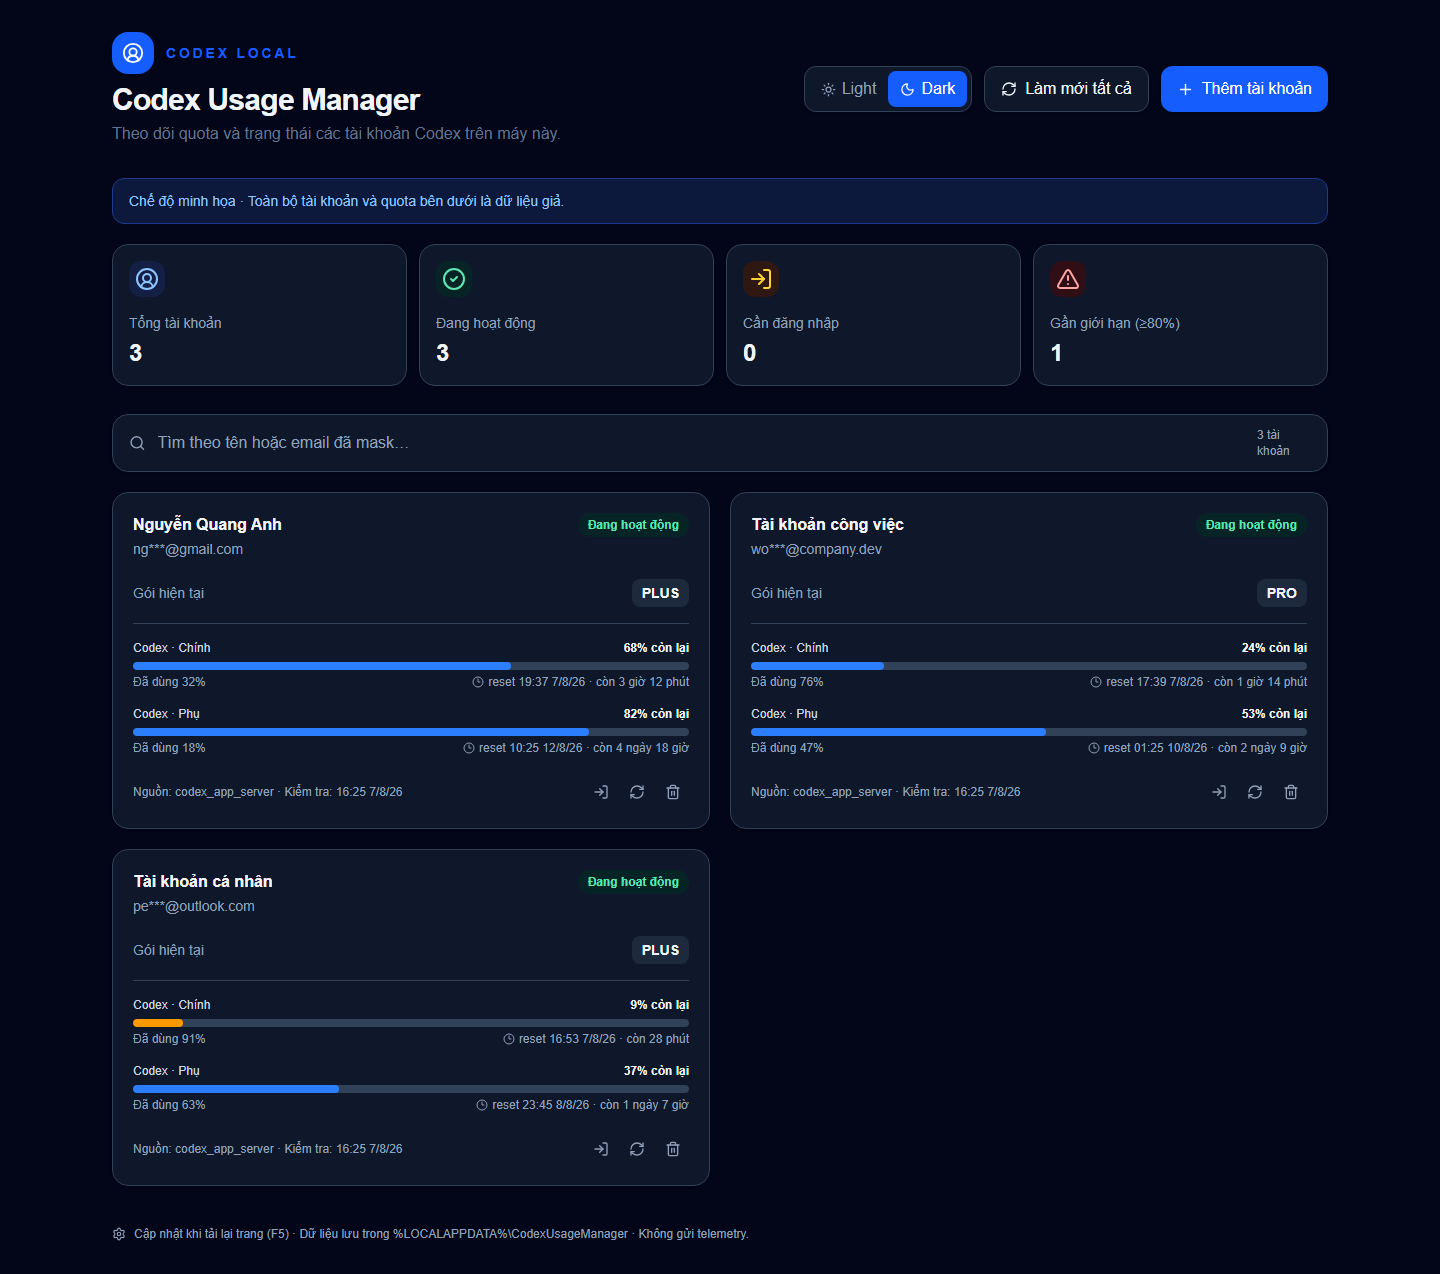
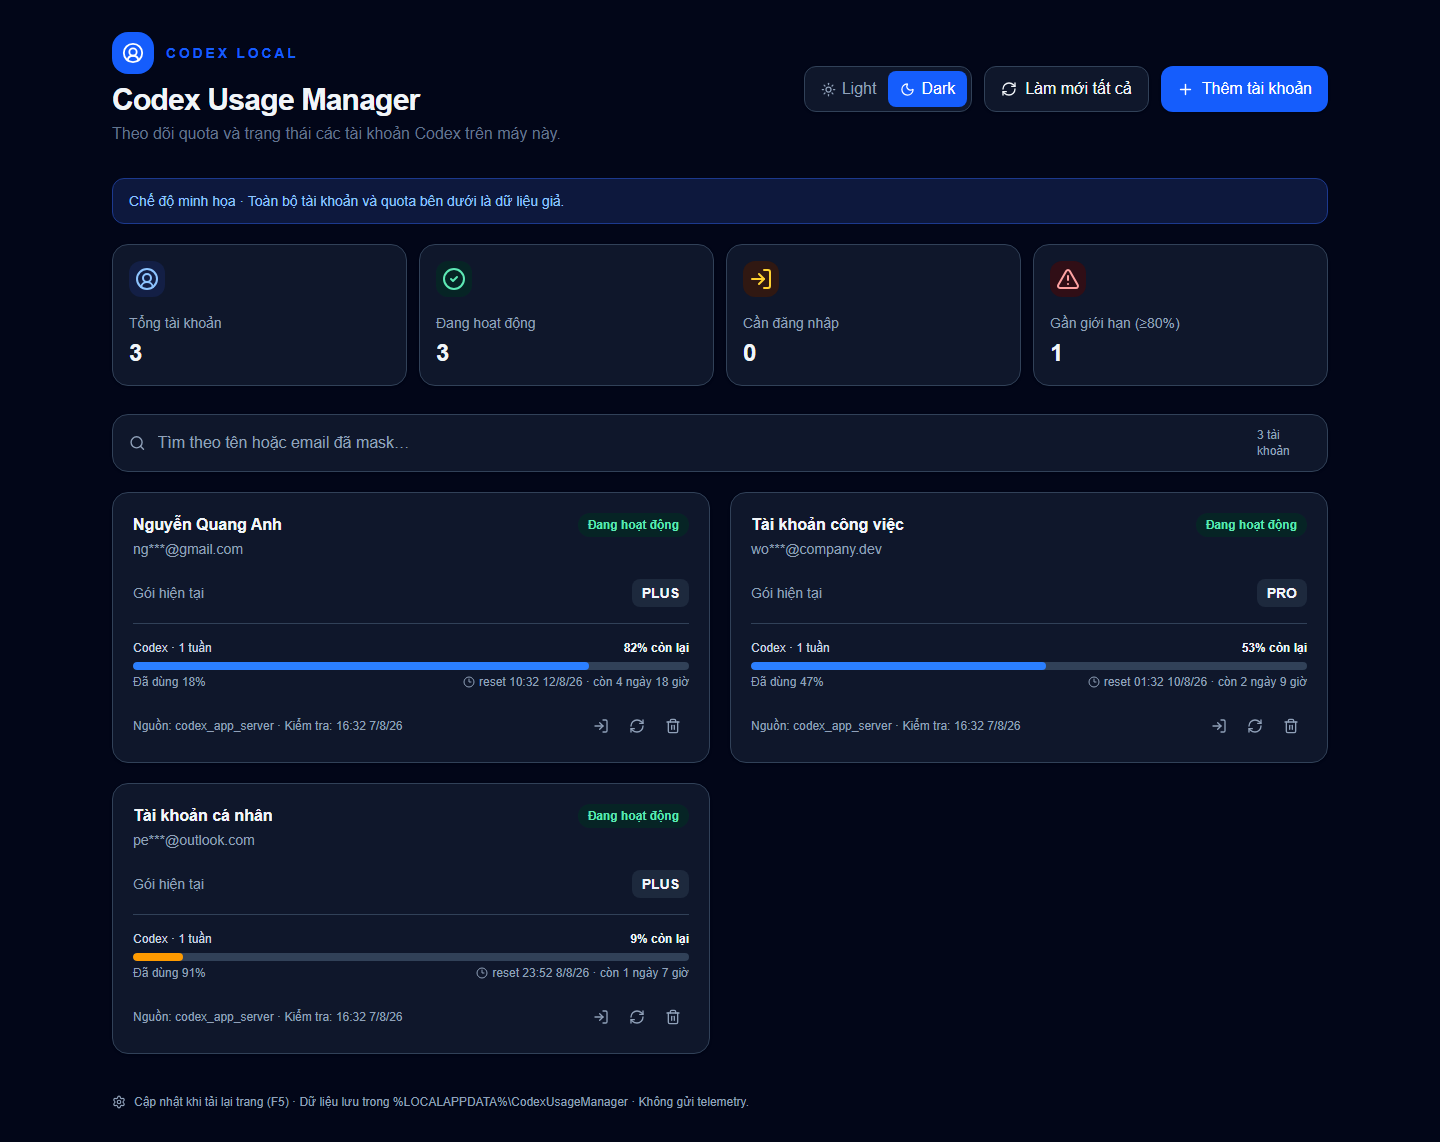
Show weekly Codex quota only

diff --git a/src/app/page.tsx b/src/app/page.tsx
@@ -20,7 +20,25 @@ function formatResetRemaining(value: string) {
   if (hours > 0) return `còn ${hours} giờ${minutes > 0 ? ` ${minutes} phút` : ""}`;
   return `còn ${minutes} phút`;
 }
-function percent(account: AccountView) { const windows = account.latestSnapshot?.windows ?? []; return windows.length ? Math.max(...windows.map((window) => window.usedPercent)) : 0; }
+function formatWindowDuration(minutes?: number) {
+  if (!minutes) return "";
+  if (minutes % 10_080 === 0) return `${minutes / 10_080} tuần`;
+  if (minutes % 1_440 === 0) return `${minutes / 1_440} ngày`;
+  if (minutes % 60 === 0) return `${minutes / 60} giờ`;
+  return `${minutes} phút`;
+}
+function visibleQuotaWindows(account: AccountView) {
+  const windows = account.latestSnapshot?.windows ?? [];
+  const longestByLimit = new Map<string, (typeof windows)[number]>();
+  for (const window of windows) {
+    const current = longestByLimit.get(window.limitId);
+    const duration = window.windowDurationMins ?? (window.kind === "secondary" ? Number.MAX_SAFE_INTEGER : 0);
+    const currentDuration = current?.windowDurationMins ?? (current?.kind === "secondary" ? Number.MAX_SAFE_INTEGER : 0);
+    if (!current || duration > currentDuration) longestByLimit.set(window.limitId, window);
+  }
+  return [...longestByLimit.values()];
+}
+function percent(account: AccountView) { const windows = visibleQuotaWindows(account); return windows.length ? Math.max(...windows.map((window) => window.usedPercent)) : 0; }
 
 async function api(path: string, init?: RequestInit) { const response = await fetch(path, { ...init, headers: { "Content-Type": "application/json", ...(init?.headers ?? {}) } }); const body = await response.json(); if (!response.ok) throw new Error(body.error ?? "Yêu cầu thất bại"); return body; }
 
@@ -113,4 +131,4 @@ export default function Home() {
 
 function Summary({ label, value, icon, tone = "blue" }: { label: string; value: number; icon: React.ReactNode; tone?: string }) { const colors: Record<string, string> = { blue: "text-blue-600 bg-blue-50 dark:bg-blue-950/60 dark:text-blue-300", green: "text-emerald-600 bg-emerald-50 dark:bg-emerald-950/60 dark:text-emerald-300", amber: "text-amber-600 bg-amber-50 dark:bg-amber-950/60 dark:text-amber-300", red: "text-red-600 bg-red-50 dark:bg-red-950/60 dark:text-red-300" }; return <div className="rounded-2xl border border-slate-200 bg-white p-4 shadow-sm dark:border-slate-700 dark:bg-slate-900"><div className={`mb-4 grid h-9 w-9 place-items-center rounded-xl ${colors[tone]}`}>{icon}</div><p className="text-sm text-slate-500 dark:text-slate-400">{label}</p><p className="mt-1 text-2xl font-bold">{value}</p></div>; }
 
-function AccountCard({ account, busy, onRefresh, onLogin, onDelete }: { account: AccountView; busy: boolean; onRefresh: () => void; onLogin: () => void; onDelete: () => void }) { const snapshot = account.latestSnapshot; const windows = snapshot?.windows ?? []; return <article className="rounded-2xl border border-slate-200 bg-white p-5 shadow-sm dark:border-slate-700 dark:bg-slate-900"><div className="flex items-start justify-between gap-3"><div><h2 className="font-bold">{account.displayName}</h2><p className="mt-0.5 text-sm text-slate-500 dark:text-slate-400">{account.maskedEmail ?? "Chưa đăng nhập"}</p></div><span className={`rounded-full px-2.5 py-1 text-xs font-semibold ${statusColor[account.status]}`}>{statusLabel[account.status]}</span></div><div className="mt-5 flex items-center justify-between border-b border-slate-100 pb-4 dark:border-slate-700"><span className="text-sm text-slate-500 dark:text-slate-400">Gói hiện tại</span><span className="rounded-lg bg-slate-100 px-2.5 py-1 text-sm font-semibold uppercase dark:bg-slate-800">{account.plan ?? "Chưa có dữ liệu"}</span></div>{windows.length ? <div className="mt-4 space-y-4">{windows.map((window) => <div key={`${window.limitId}-${window.kind}`}><div className="mb-1.5 flex justify-between text-xs"><span className="font-medium text-slate-600 dark:text-slate-300">{window.limitName ?? window.limitId} · {window.kind === "primary" ? "Chính" : "Phụ"}</span><span className="font-semibold">{window.remainingPercent}% còn lại</span></div><div className="h-2 overflow-hidden rounded-full bg-slate-100 dark:bg-slate-700"><div className={`h-full rounded-full ${window.remainingPercent <= 20 ? "bg-amber-500" : "bg-blue-500"}`} style={{ width: `${window.remainingPercent}%` }} /></div><div className="mt-1 flex items-center justify-between text-xs text-slate-400"><span>Đã dùng {window.usedPercent}%</span><span className="inline-flex items-center gap-1"><Clock3 size={12} /> {window.resetsAt ? `reset ${formatDate(window.resetsAt)} · ${formatResetRemaining(window.resetsAt)}` : "OpenAI không trả về dữ liệu reset"}</span></div></div>)}</div> : <div className="mt-5 rounded-xl bg-slate-50 px-3 py-4 text-sm text-slate-500 dark:bg-slate-800 dark:text-slate-400">{snapshot?.message ?? "OpenAI không trả về dữ liệu quota."}</div>}<div className="mt-5 flex items-center justify-between text-xs text-slate-400"><span>Nguồn: {snapshot?.source ?? "codex_app_server"} · Kiểm tra: {formatDate(account.lastCheckedAt)}</span><div className="flex gap-1"><button title="Đăng nhập" onClick={onLogin} className="rounded-lg p-2 text-slate-500 hover:bg-blue-50 hover:text-blue-600 dark:text-slate-400 dark:hover:bg-slate-800 dark:hover:text-blue-400"><LogIn size={16} /></button><button title="Làm mới" onClick={onRefresh} disabled={busy} className="rounded-lg p-2 text-slate-500 hover:bg-blue-50 hover:text-blue-600 disabled:opacity-50 dark:text-slate-400 dark:hover:bg-slate-800 dark:hover:text-blue-400"><RefreshCw size={16} className={busy ? "animate-spin" : ""} /></button><button title="Xóa session" onClick={onDelete} className="rounded-lg p-2 text-slate-500 hover:bg-red-50 hover:text-red-600 dark:text-slate-400 dark:hover:bg-slate-800 dark:hover:text-red-400"><Trash2 size={16} /></button></div></div></article>; }
+function AccountCard({ account, busy, onRefresh, onLogin, onDelete }: { account: AccountView; busy: boolean; onRefresh: () => void; onLogin: () => void; onDelete: () => void }) { const snapshot = account.latestSnapshot; const windows = visibleQuotaWindows(account); return <article className="rounded-2xl border border-slate-200 bg-white p-5 shadow-sm dark:border-slate-700 dark:bg-slate-900"><div className="flex items-start justify-between gap-3"><div><h2 className="font-bold">{account.displayName}</h2><p className="mt-0.5 text-sm text-slate-500 dark:text-slate-400">{account.maskedEmail ?? "Chưa đăng nhập"}</p></div><span className={`rounded-full px-2.5 py-1 text-xs font-semibold ${statusColor[account.status]}`}>{statusLabel[account.status]}</span></div><div className="mt-5 flex items-center justify-between border-b border-slate-100 pb-4 dark:border-slate-700"><span className="text-sm text-slate-500 dark:text-slate-400">Gói hiện tại</span><span className="rounded-lg bg-slate-100 px-2.5 py-1 text-sm font-semibold uppercase dark:bg-slate-800">{account.plan ?? "Chưa có dữ liệu"}</span></div>{windows.length ? <div className="mt-4 space-y-4">{windows.map((window) => <div key={`${window.limitId}-${window.kind}`}><div className="mb-1.5 flex justify-between text-xs"><span className="font-medium text-slate-600 dark:text-slate-300">{window.limitName ?? window.limitId}{window.windowDurationMins ? ` · ${formatWindowDuration(window.windowDurationMins)}` : ""}</span><span className="font-semibold">{window.remainingPercent}% còn lại</span></div><div className="h-2 overflow-hidden rounded-full bg-slate-100 dark:bg-slate-700"><div className={`h-full rounded-full ${window.remainingPercent <= 20 ? "bg-amber-500" : "bg-blue-500"}`} style={{ width: `${window.remainingPercent}%` }} /></div><div className="mt-1 flex items-center justify-between text-xs text-slate-400"><span>Đã dùng {window.usedPercent}%</span><span className="inline-flex items-center gap-1"><Clock3 size={12} /> {window.resetsAt ? `reset ${formatDate(window.resetsAt)} · ${formatResetRemaining(window.resetsAt)}` : "OpenAI không trả về dữ liệu reset"}</span></div></div>)}</div> : <div className="mt-5 rounded-xl bg-slate-50 px-3 py-4 text-sm text-slate-500 dark:bg-slate-800 dark:text-slate-400">{snapshot?.message ?? "OpenAI không trả về dữ liệu quota."}</div>}<div className="mt-5 flex items-center justify-between text-xs text-slate-400"><span>Nguồn: {snapshot?.source ?? "codex_app_server"} · Kiểm tra: {formatDate(account.lastCheckedAt)}</span><div className="flex gap-1"><button title="Đăng nhập" onClick={onLogin} className="rounded-lg p-2 text-slate-500 hover:bg-blue-50 hover:text-blue-600 dark:text-slate-400 dark:hover:bg-slate-800 dark:hover:text-blue-400"><LogIn size={16} /></button><button title="Làm mới" onClick={onRefresh} disabled={busy} className="rounded-lg p-2 text-slate-500 hover:bg-blue-50 hover:text-blue-600 disabled:opacity-50 dark:text-slate-400 dark:hover:bg-slate-800 dark:hover:text-blue-400"><RefreshCw size={16} className={busy ? "animate-spin" : ""} /></button><button title="Xóa session" onClick={onDelete} className="rounded-lg p-2 text-slate-500 hover:bg-red-50 hover:text-red-600 dark:text-slate-400 dark:hover:bg-slate-800 dark:hover:text-red-400"><Trash2 size={16} /></button></div></div></article>; }

diff --git a/src/lib/demo-accounts.ts b/src/lib/demo-accounts.ts
@@ -23,7 +23,6 @@ export function createDemoAccounts(): AccountView[] {
         source: "codex_app_server",
         checkedAt,
         windows: [
-          { limitId: "codex", limitName: "Codex", kind: "primary", usedPercent: 32, remainingPercent: 68, windowDurationMins: 300, resetsAt: futureIso(192) },
           { limitId: "codex", limitName: "Codex", kind: "secondary", usedPercent: 18, remainingPercent: 82, windowDurationMins: 10_080, resetsAt: futureIso(6_840) },
         ],
       },
@@ -43,7 +42,6 @@ export function createDemoAccounts(): AccountView[] {
         source: "codex_app_server",
         checkedAt,
         windows: [
-          { limitId: "codex", limitName: "Codex", kind: "primary", usedPercent: 76, remainingPercent: 24, windowDurationMins: 300, resetsAt: futureIso(74) },
           { limitId: "codex", limitName: "Codex", kind: "secondary", usedPercent: 47, remainingPercent: 53, windowDurationMins: 10_080, resetsAt: futureIso(3_420) },
         ],
       },
@@ -63,8 +61,7 @@ export function createDemoAccounts(): AccountView[] {
         source: "codex_app_server",
         checkedAt,
         windows: [
-          { limitId: "codex", limitName: "Codex", kind: "primary", usedPercent: 91, remainingPercent: 9, windowDurationMins: 300, resetsAt: futureIso(28) },
-          { limitId: "codex", limitName: "Codex", kind: "secondary", usedPercent: 63, remainingPercent: 37, windowDurationMins: 10_080, resetsAt: futureIso(1_880) },
+          { limitId: "codex", limitName: "Codex", kind: "secondary", usedPercent: 91, remainingPercent: 9, windowDurationMins: 10_080, resetsAt: futureIso(1_880) },
         ],
       },
     },
